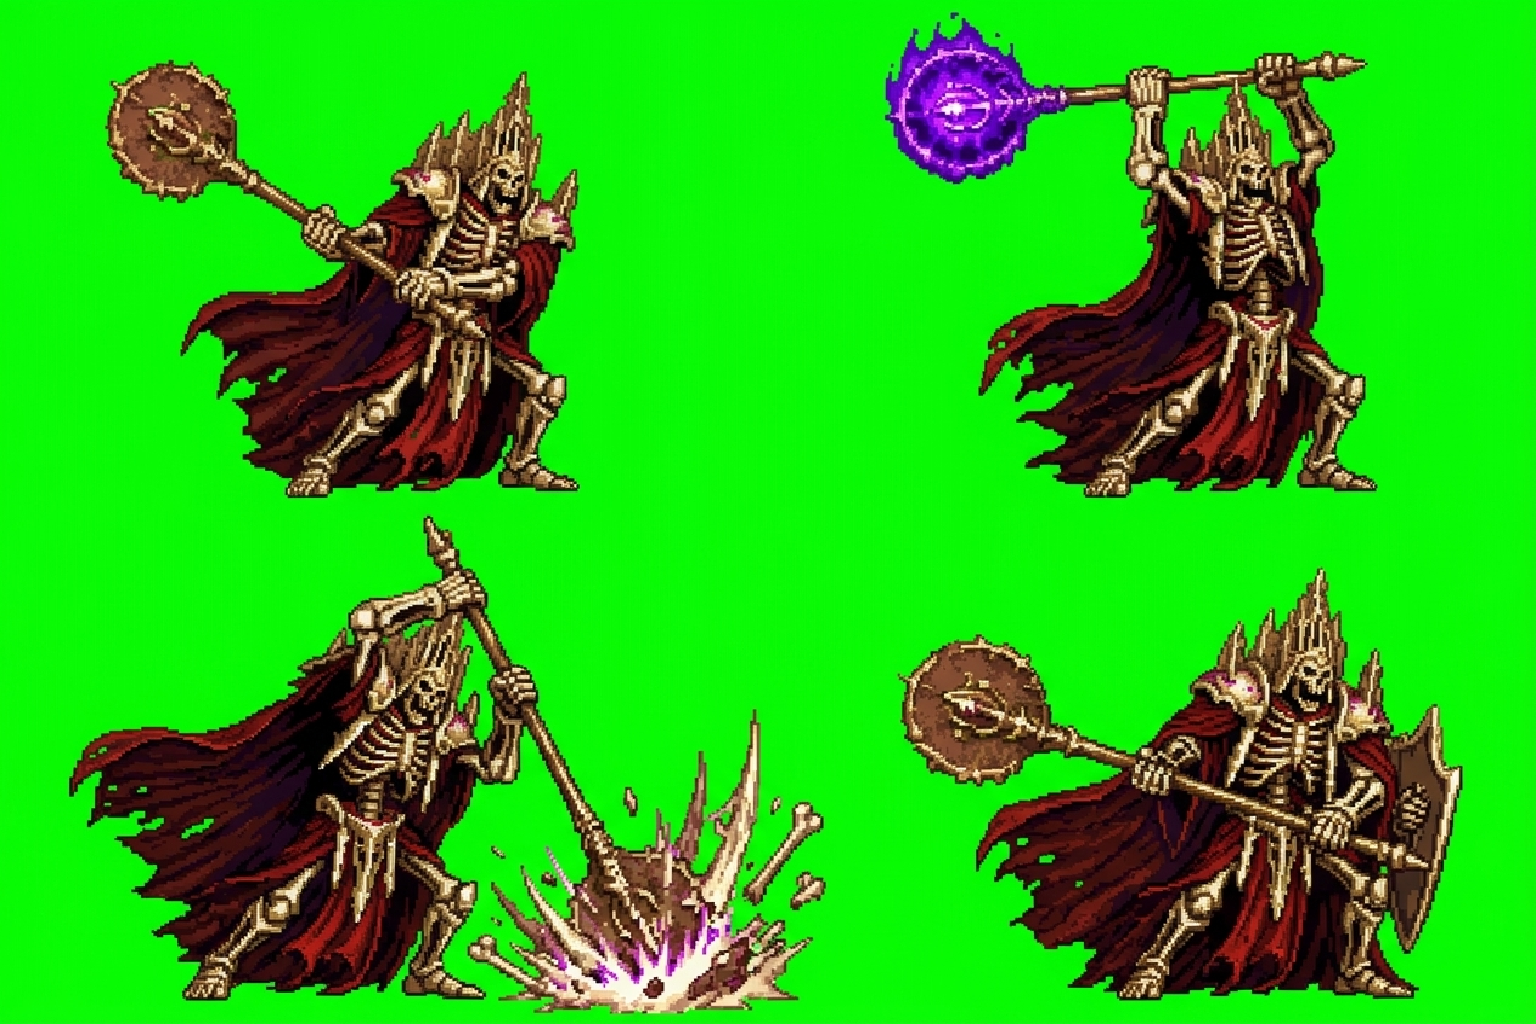
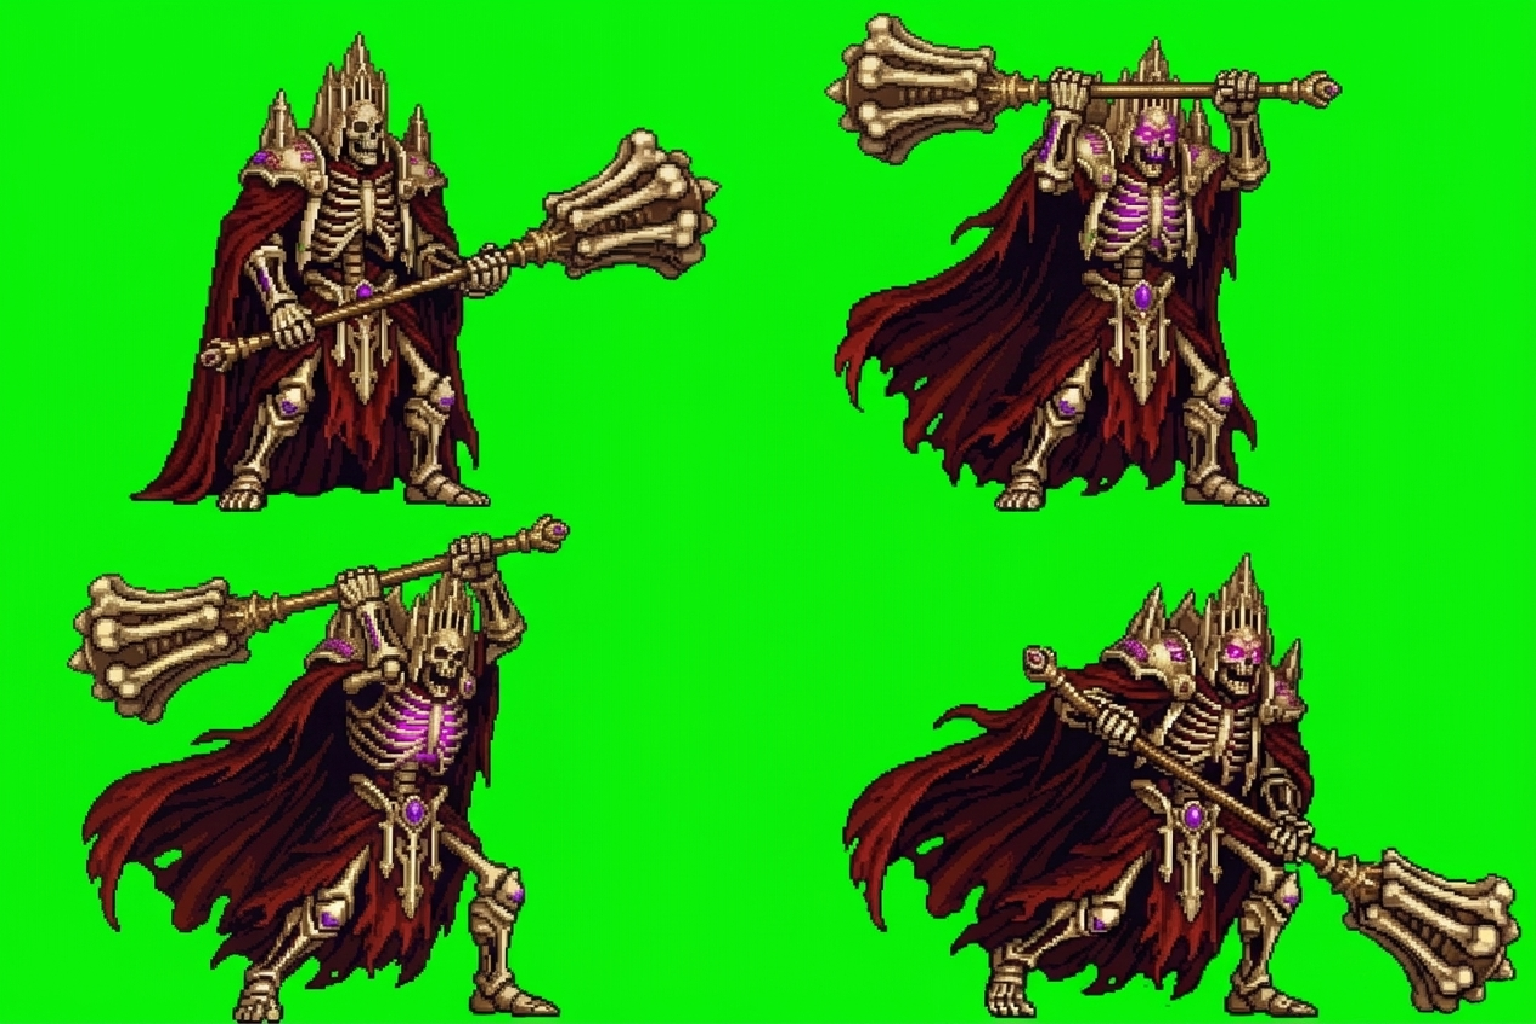
Consegna Argon giro 3 (lotto 2): riallineamento arma bone_tyrant_b e bone_tyrant_c senza scudo

diff --git a/deliveries/argon-asset-giro2-20261110/B/CONSEGNA.md b/deliveries/argon-asset-giro2-20261110/B/CONSEGNA.md
@@ -1,21 +1,24 @@
-# Consegna Argon Giro 3 — Gruppo B (Boss a 288 px)
+# Consegna Argon Giro 3 (Lotto 2) — Gruppo B (Boss a 288 px)
 
-Modello di generazione immagini utilizzato: `models/gemini-4-argon (generate_image native image generation tool)`
-Metodo: Generazione neurale diretta tramite tool `generate_image` con i fogli boss di riferimento allegati (`cathedral_bone_tyrant.png`, `toxic_forge_behemoth.png`, `shadow_reaper.png`), fondo verde `#00FF00`.
+- **Dipartimenti responsabili:** Lead Character Artist, Art Director, Technical Artist, QA
+- **Modello di generazione immagini utilizzato:** `models/gemini-4-argon (generate_image native image generation tool)`
+- **Aggiornamento Lotto 2 (`[FATTO]`):** In seguito all'ispezione registrata in `docs/gold/CONSEGNA_ARGON_GIRO3_20261111_ESITO.md` (*"in `_a` l'arma è una clava d'ossa, in `_b…d` una mazza tonda con scudo"*), sono stati rigenerati `bone_tyrant_b.png` e `bone_tyrant_c.png` passando `bone_tyrant_a.png` come Model Sheet bloccato: entrambi usano ora la **stessa identica clava d'ossa a due mani e la stessa armatura senza alcuno scudo**.
 
 | File | Dimensioni | KB | SHA-256 | Modello | Prompt / Note |
 |---|---|---|---|---|---|
-| `bone_tyrant_a.png` | 1536×1024 | 1475.3 KB | `e2e06a6c152530a8…` | `models/gemini-4-argon (generate_image native image generation tool)` | bone_tyrant (_a): re scheletrico in armatura gotica da cattedrale con grande mazza d'ossa; 4 pose (fermo, respiro, passo 1, passo 2) su fondo #00FF00. |
-| `bone_tyrant_b.png` | 1536×1024 | 1455.8 KB | `1df81a4642b54ffa…` | `models/gemini-4-argon (generate_image native image generation tool)` | bone_tyrant (_b): 4 pose d'attacco (carica 1, carica 2, colpo, ritorno) dello stesso boss su fondo #00FF00. |
-| `bone_tyrant_c.png` | 1536×1024 | 1456.4 KB | `f19fc571986ef7b0…` | `models/gemini-4-argon (generate_image native image generation tool)` | bone_tyrant (_c): 4 pose (attacco speciale 1, 2, 3, cambio di fase) dello stesso boss su fondo #00FF00. |
-| `bone_tyrant_d.png` | 1536×1024 | 1328.1 KB | `8ee30b4b1e1c2b40…` | `models/gemini-4-argon (generate_image native image generation tool)` | bone_tyrant (_d): 4 pose (colpito, in ginocchio, caduta, a terra) dello stesso boss su fondo #00FF00. |
-| `forge_behemoth_a.png` | 1536×1024 | 1544.3 KB | `01b7c508ea908f3c…` | `models/gemini-4-argon (generate_image native image generation tool)` | forge_behemoth (_a): colosso da fonderia con braccio a sega circolare e serbatoi verdi sulla schiena; 4 pose (fermo, respiro, passo 1, passo 2) su fondo #00FF00. |
-| `forge_behemoth_b.png` | 1536×1024 | 1336.9 KB | `aaeba65fe0ef5494…` | `models/gemini-4-argon (generate_image native image generation tool)` | forge_behemoth (_b): 4 pose d'attacco (carica 1, carica 2, colpo, ritorno) dello stesso boss su fondo #00FF00. |
-| `forge_behemoth_c.png` | 1536×1024 | 1409.5 KB | `741b1e284a264d84…` | `models/gemini-4-argon (generate_image native image generation tool)` | forge_behemoth (_c): 4 pose (attacco speciale 1, 2, 3, cambio di fase) dello stesso boss su fondo #00FF00. |
-| `forge_behemoth_d.png` | 1536×1024 | 1376.8 KB | `1e29fc1ad387854f…` | `models/gemini-4-argon (generate_image native image generation tool)` | forge_behemoth (_d): 4 pose (colpito, in ginocchio, caduta, a terra) dello stesso boss su fondo #00FF00. |
-| `shadow_reaper_a.png` | 1536×1024 | 1309.6 KB | `4eadc72b8b5d97bc…` | `models/gemini-4-argon (generate_image native image generation tool)` | shadow_reaper (_a): mietitore d'ombra incappucciato con lunga falce e mantello che si dissolve; 4 pose (fermo, respiro, passo 1, passo 2) su fondo #00FF00. |
-| `shadow_reaper_b.png` | 1536×1024 | 1315.0 KB | `577fff26a6c3cfd9…` | `models/gemini-4-argon (generate_image native image generation tool)` | shadow_reaper (_b): 4 pose d'attacco (carica 1, carica 2, colpo, ritorno) dello stesso boss su fondo #00FF00. |
-| `shadow_reaper_c.png` | 1536×1024 | 1458.9 KB | `512f985751518173…` | `models/gemini-4-argon (generate_image native image generation tool)` | shadow_reaper (_c): 4 pose (attacco speciale 1, 2, 3, cambio di fase) dello stesso boss su fondo #00FF00. |
[11 lines of base64/hex data omitted]
 
-### Immagini saltate per esaurimento quota giornaliera (`generic::resource_exhausted`)
-- `shadow_reaper_d.png`: saltata senza placeholder al raggiungimento del limite giornaliero del modello di immagini.
+### Immagini mancanti / da rigenerare nel Gruppo B (in coda per limite giornaliero `generic::resource_exhausted`)
+1. `shadow_reaper_d.png` (1536×1024, fondo `#00FF00`, 4 pose sconfitta/atterramento derivate da `shadow_reaper_a.png`).
+2. `forge_behemoth_b.png` (1536×1024, fondo `#00FF00`, da rigenerare usando `forge_behemoth_a.png` come riferimento per mantenere il golem di bronzo/ottone anziché acciaio grigio).
+3. `bone_tyrant_d.png` (opzionale: già senza scudo, ma l'arma caduta a terra ha testa tonda anziché la clava a due mani di `_a, _b, _c`).
